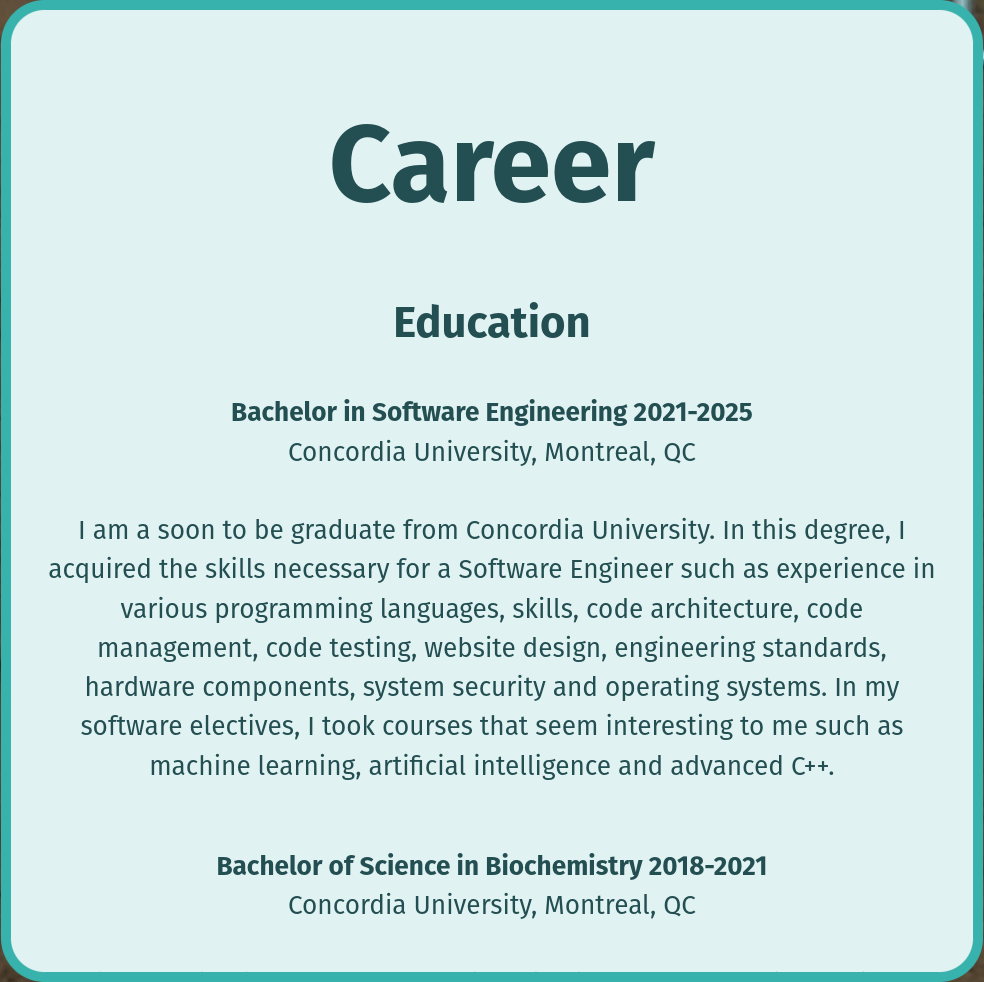
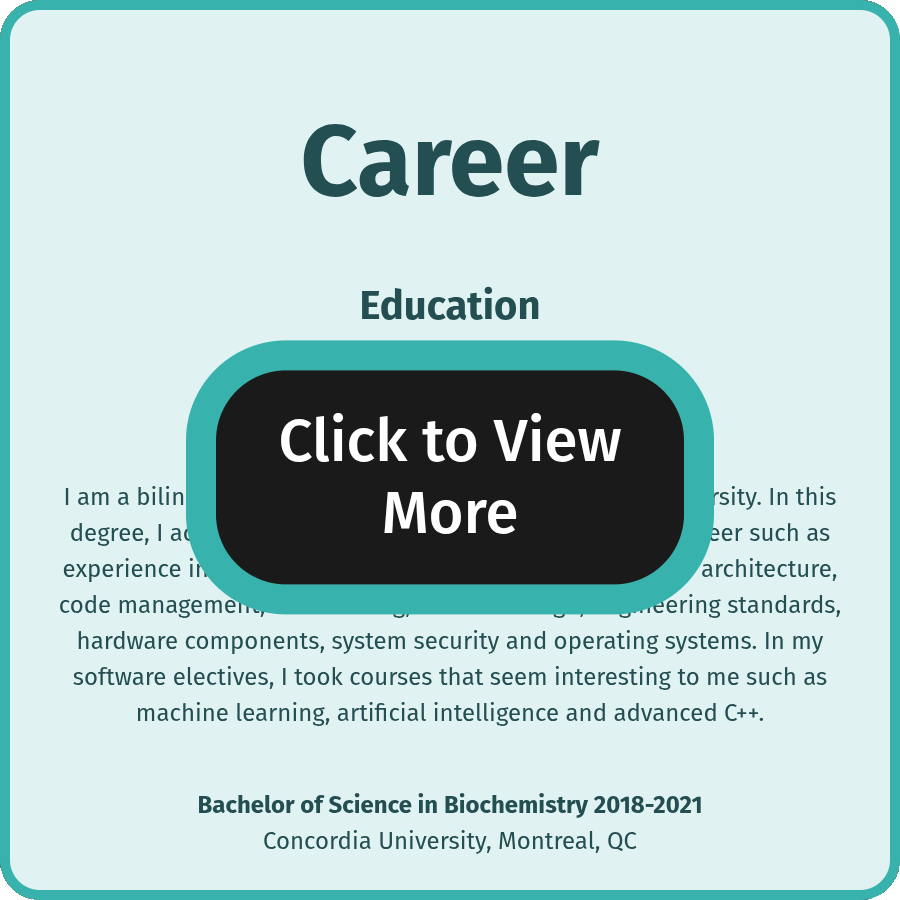
Improved display of sectins

diff --git a/src/FirstPersonCameraDemo.js b/src/FirstPersonCameraDemo.js
@@ -1067,7 +1067,7 @@ class FirstPersonCameraDemo {
           const computerTVDisplay = new THREE.TextureLoader().load('/Map/TVDisplay/softwareDisplay.png');
           computerTVDisplay.encoding = THREE.sRGBEncoding;
           const computerGeometry = new THREE.PlaneGeometry(6, 6);
-          const computerMaterial = new THREE.MeshBasicMaterial({ map: computerTVDisplay });
+          const computerMaterial = new THREE.MeshBasicMaterial({ map: computerTVDisplay, transparent: true });
           computerDisplay = new THREE.Mesh(computerGeometry, computerMaterial);
           computerDisplay.rotation.y = 5*Math.PI / 4;
           computerDisplay.position.set(15.5, 4.4, 15.5);
@@ -1086,7 +1086,7 @@ class FirstPersonCameraDemo {
         const jboxTVDisplay = new THREE.TextureLoader().load('/Map/TVDisplay/musicDisplay.png');
         jboxTVDisplay.encoding = THREE.sRGBEncoding;
         const jboxGeometry = new THREE.PlaneGeometry(6, 6);
-        const jboxMaterial = new THREE.MeshBasicMaterial({ map: jboxTVDisplay });
+        const jboxMaterial = new THREE.MeshBasicMaterial({ map: jboxTVDisplay, transparent: true });
         jboxDisplay = new THREE.Mesh(jboxGeometry, jboxMaterial);
         jboxDisplay.rotation.y = 7*Math.PI / 4;
         jboxDisplay.position.set(15.4, 4.4, -15.4);
@@ -1105,7 +1105,7 @@ class FirstPersonCameraDemo {
           const scrollTVDisplay = new THREE.TextureLoader().load('/Map/TVDisplay/careerDisplay.png');
           scrollTVDisplay.encoding = THREE.sRGBEncoding;
           const scrollGeometry = new THREE.PlaneGeometry(6, 6);
-          const scrollMaterial = new THREE.MeshBasicMaterial({ map: scrollTVDisplay });
+          const scrollMaterial = new THREE.MeshBasicMaterial({ map: scrollTVDisplay, transparent: true });
           scrollDisplay = new THREE.Mesh(scrollGeometry, scrollMaterial);
           scrollDisplay.rotation.y = 3*Math.PI / 4;
           scrollDisplay.position.set(-15.4, 4.4, 15.4);
